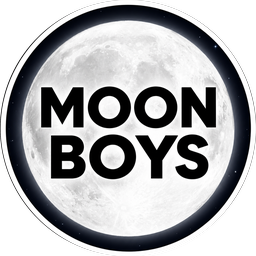
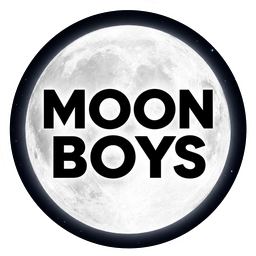
Use the pre-cut roundel for the navbar mark
Theo: "lets try this instead" — the "copy" of the Jul 12 file. Third pick,
after the MBP moon and the uncut Jul 12 square.

The circle mask is gone from the script. The two earlier sources were
flattened squares and had to have the disc measured and cut out; this one
arrives RGBA with alpha 0 in the corners, so re-cutting it could only clip the
soft outline the artwork carries outside the ring. Its own alpha is used
as-is.

What replaced the mask is a premultiplied resample. The transparent pixels in
this file are WHITE at alpha 0, and LANCZOS averages RGB without regard to
alpha — a plain resize drags that white into the rim and hangs a pale halo
around the ring against #0a0e1a. Multiplying through by alpha first and
dividing back out after keeps those pixels from contributing anything.

diff --git a/scripts/make-navbar-mark.py b/scripts/make-navbar-mark.py
@@ -1,50 +1,49 @@
 #!/usr/bin/env python3
-r"""Cut the MOON BOYS roundel out of the logo file for the navbar.
+r"""Resize the pre-cut MOON BOYS roundel for the navbar.
 
-Theo, 2026-09-05: "it says moonboys podcast in the top left corner. can we just
-put the logo up there" — then, on the first attempt (the MBP moon that sits in
-Logo/): "ew no i dont like that moonboys logo. how about this one", pointing at
-ChatGPT Image Jul 12, 2026, 12_30_16 PM.png.
+Theo, 2026-09-05, third pick: "lets try this instead" — the "copy" of the
+Jul 12 file. Two before it: the MBP moon in Logo/ ("ew no i dont like that
+moonboys logo") and the uncut Jul 12 square.
 
-⚠ THE SOURCE IS A SQUARE PNG WITH A BLACK STARFIELD AROUND THE ROUNDEL, NOT A
-LOGO ON TRANSPARENCY. That black is #000; the navbar is #0a0e1a. Dropped in
-square, the corners are a slightly different black from the bar behind them and
-the mark reads as a pasted-on tile. So the roundel gets cut out and everything
-outside it becomes transparent.
+WHY THERE IS NO CIRCLE MASK IN HERE ANY MORE. The two earlier sources were
+flattened squares — one on a grey gradient, one on a black starfield — and both
+needed the disc measured and cut out or they would have read as a tile pasted
+onto the bar. This file arrives already cut: mode RGBA, corners at alpha 0,
+67% of the frame opaque. Measuring and re-cutting it could only clip the soft
+outline fragments the artwork carries outside the ring, so the alpha that is
+already in the file is used exactly as it is.
 
-The circle was measured, not guessed. Scanning the centre row and centre column
-for anything above L=40 (the starfield is under it) puts the outer amber ring
-at x 22-1231 and y 24-1240 of a 1254x1254 frame: centre (626.5, 632), radius
-~606. The mask uses that circle, so the amber arc survives and the stars do not.
-
-Output is 256px — comfortably over 4x the largest size the navbar draws it at,
-so it stays sharp on any DPR.
+⚠ PREMULTIPLIED RESAMPLE, NOT A PLAIN ONE. The transparent pixels in this file
+are WHITE with alpha 0. LANCZOS ignores alpha and averages RGB, so a plain
+resize drags that white into every edge pixel and hangs a pale halo around the
+ring — visible against #0a0e1a, and exactly the artifact the whole exercise is
+meant to avoid. Multiplying RGB by alpha before resampling and dividing it back
+out afterwards makes the transparent pixels contribute nothing.
 
     python scripts/make-navbar-mark.py   ->  public/moon-boys-mark.png
 """
-from PIL import Image, ImageDraw
+from PIL import Image
 import numpy as np
 
-SRC = r"Z:\! Accounts\moonboyspodcast\ChatGPT Image Jul 12, 2026, 12_30_16 PM.png"
-CX, CY, R = 626.5, 632.0, 606.0
+SRC = r"Z:\! Accounts\moonboyspodcast\ChatGPT Image Jul 12, 2026, 12_30_16 PM copy.png"
 OUT = 256
-SS = 8  # supersample the mask, then downsample — cheap, smooth rim
 
-src = Image.open(SRC).convert("RGB")
+src = Image.open(SRC).convert("RGBA")
+a = np.asarray(src, dtype=np.float64)
+rgb, alpha = a[..., :3], a[..., 3:] / 255.0
 
-# Crop to the roundel's bounding square first so it fills the output frame edge
-# to edge; padding here is padding the navbar pays for in height.
-box = (round(CX - R), round(CY - R), round(CX + R), round(CY + R))
-disc = src.crop(box).resize((OUT, OUT), Image.LANCZOS)
+pre = Image.fromarray(np.concatenate([rgb * alpha, alpha * 255], axis=2).astype(np.uint8), "RGBA")
+small = np.asarray(pre.resize((OUT, OUT), Image.LANCZOS), dtype=np.float64)
 
-m = Image.new("L", (OUT * SS, OUT * SS), 0)
-ImageDraw.Draw(m).ellipse([0, 0, OUT * SS - 1, OUT * SS - 1], fill=255)
-mask = m.resize((OUT, OUT), Image.LANCZOS)
-
-out = disc.convert("RGBA")
-out.putalpha(mask)
+al = small[..., 3:] / 255.0
+# Where nothing is left, keep the colour channels at zero rather than dividing
+# by it — the pixel is invisible either way, and NaNs are not.
+un = np.divide(small[..., :3], al, out=np.zeros_like(small[..., :3]), where=al > 0)
+out = Image.fromarray(
+    np.concatenate([np.clip(un, 0, 255), al * 255], axis=2).astype(np.uint8), "RGBA"
+)
 out.save("public/moon-boys-mark.png", "PNG", optimize=True)
 
-a = np.asarray(out)
+o = np.asarray(out)
 print("public/moon-boys-mark.png %dx%d  opaque %.1f%%  corner alpha %d"
-      % (OUT, OUT, (a[..., 3] > 250).mean() * 100, a[0, 0, 3]))
+      % (OUT, OUT, (o[..., 3] > 250).mean() * 100, o[0, 0, 3]))
